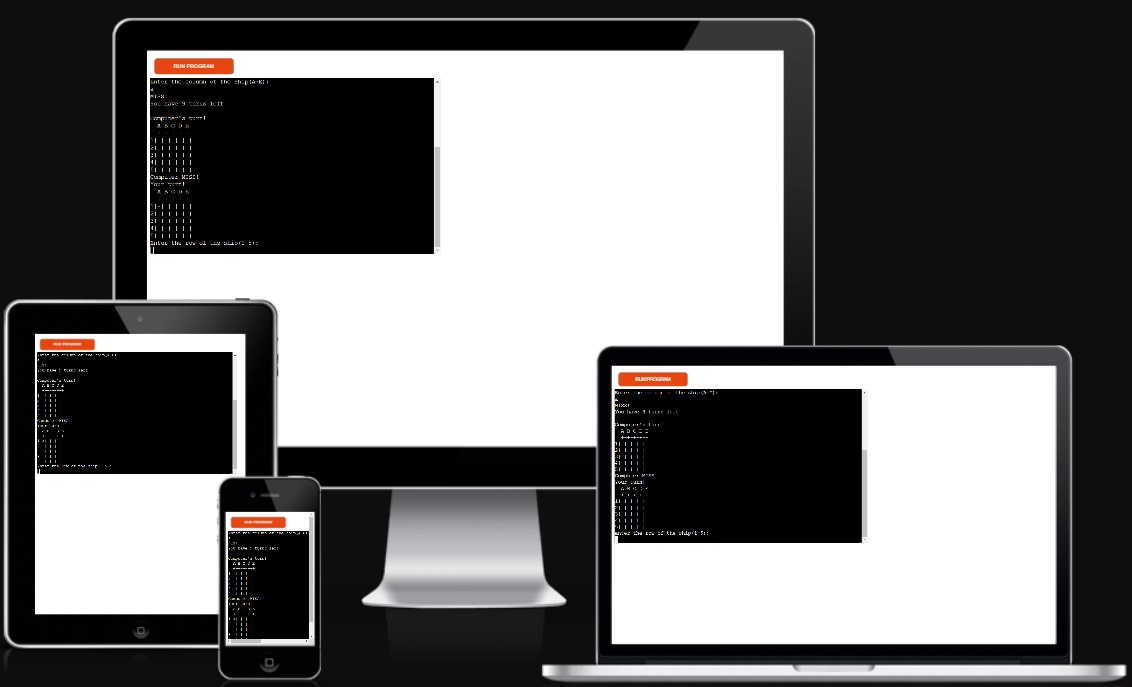
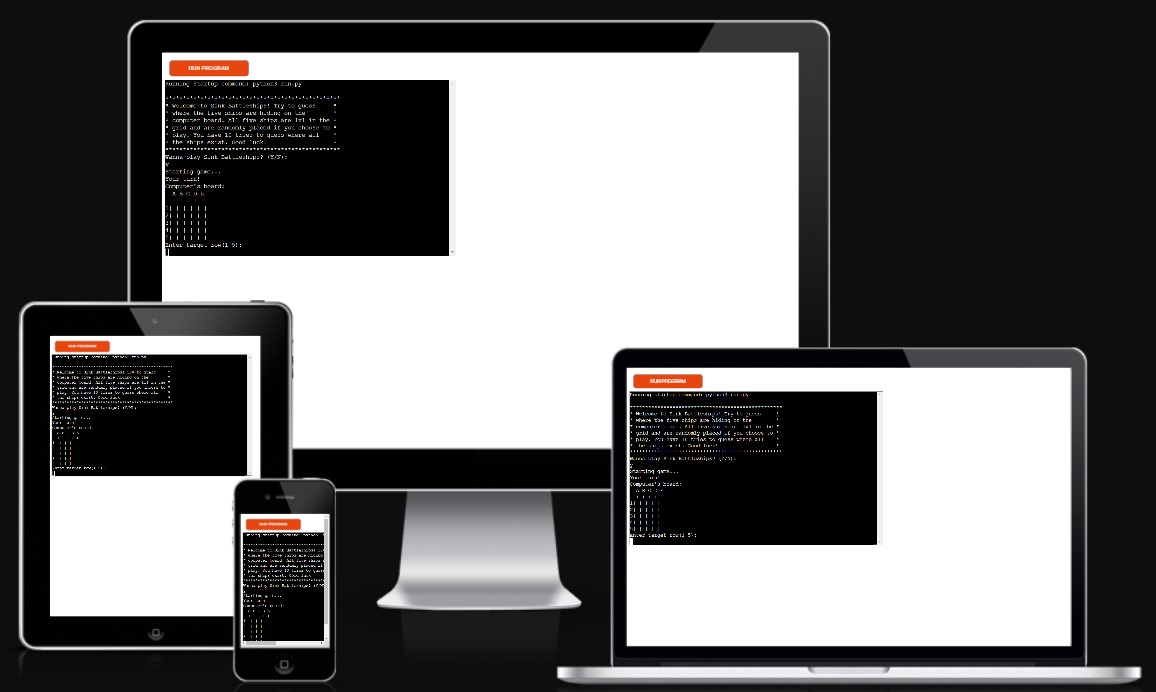
Add final board display when game over

Changed region(s): [[0.0, 0.0, 1.0, 1.0], [0.371, 0.1223, 0.4019, 0.3668], [0.742, 0.5808, 0.773, 0.7948]]

diff --git a/run.py b/run.py
@@ -165,7 +165,13 @@ def play():
             print("All your battleships are sunk! You lose!")
             break
 
-        if turns == 0:
+        if turns == 0 or count_hit_ships(visible_board_computer) == 5 or count_hit_ships(users_board) == 5:
+            print("\nFinal Boards:")
+            print("\nYour Final Board:")
+            print_board(users_board)
+            print("\nComputer's Final Board:")
+            print_board(visible_board_computer)
+            
             player_hits = count_hit_ships(visible_board_computer)
             computer_hits = count_hit_ships(users_board)
             print("Game over! Counting the number of hits...")
